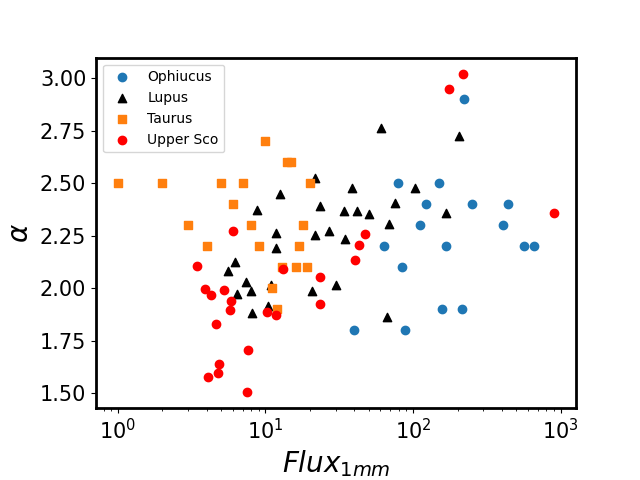
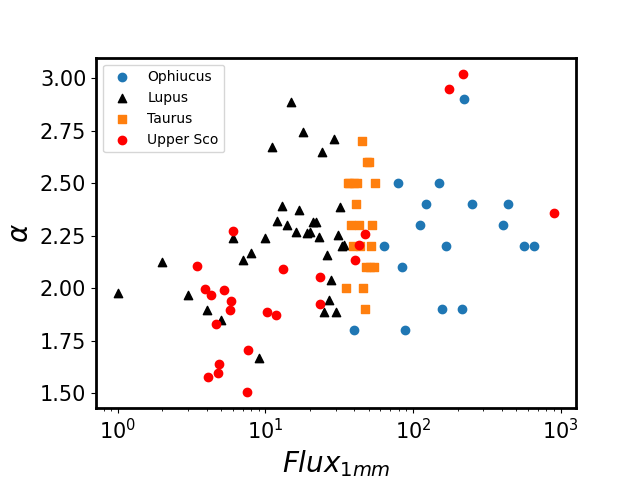
Updates
Addition of spectral indices from Ricci Lupus 0.87mm paper

diff --git a/Cumulative_spectral_indices.py b/Cumulative_spectral_indices.py
@@ -1,8 +1,9 @@
 from data_file import tazzari_lupus_flux, tazzari_lupus_flux_error, tazzari_lupus_sources, source_ansdell_lupus, \
     flux_ansdell_1_33mm_lupus, flux_ansdell_1_33mm_error_lupus, ricci_taurus_sources_1mm, flux_barenfeld_0_88mm_updated,\
     flux_list_ophiucus_ricci_1mm, source_list_ophiucus_ricci_1mm, ricci_ophiuchi_flux_3_3mm, \
-    source_names_ophiucus_ricci_3_3mm, spectral_index_ophiucus, spectral_indices_taurus
-from Histogram_spectral_index import spectra_index, spectral_index_upper_sco
+    source_names_ophiucus_ricci_3_3mm, spectral_index_ophiucus, spectral_indices_taurus, tazzari_lupus_spectral_indices
+from Histogram_spectral_index import spectral_index_upper_sco
+
 
 import numpy as np
 import matplotlib.pyplot as plt
@@ -30,11 +31,6 @@ for index_andsell, element_andsell in enumerate(source_ansdell_lupus):
             flux_matching_TAZZARI_andsell_error_lupus.append(tazzari_lupus_flux_error[index_tazzari])
             flux_matching_tazzari_ANDSELL_lupus.append(flux_ansdell_1_33mm_lupus[index_andsell])
             flux_matching_tazzari_ANDSELL_error_lupus.append(flux_ansdell_1_33mm_error_lupus[index_andsell])
-
-spectral_index_lupus = []
-for x in range(len(sources_matching_tazzari_andsell_lupus)):
-    spectral_index_lupus.append(spectra_index(flux_matching_tazzari_ANDSELL_lupus[x], flux_matching_TAZZARI_andsell_lupus[x], 10 ** 10 / 0.133, 10 ** 10 / 0.31))
-
 
 #matching_sources_ricci_taurus_3mm_1mm = []
 #matching_fluxes_ricci_taurus_3MM_1mm = []
@@ -93,18 +89,19 @@ while minimum < np.max(spectral_indices_taurus) + 0.3:
 count_list_taurus = [x / 11 for x in count_list_taurus]
 
 count_list_lupus = []
-steps = (np.max(spectral_index_lupus) - np.min(spectral_index_lupus))/100
-minimum = np.min(spectral_index_lupus) - 0.3
-while minimum < np.max(spectral_index_lupus) + 0.3:
+steps = (np.max(tazzari_lupus_spectral_indices) - np.min(tazzari_lupus_spectral_indices))/100
+minimum = np.min(tazzari_lupus_spectral_indices) - 0.3
+while minimum < np.max(tazzari_lupus_spectral_indices) + 0.3:
     count = 0
-    for elements in spectral_index_lupus:
+    for elements in tazzari_lupus_spectral_indices:
         if elements <= minimum:
             count += 1
 
     count_list_lupus.append(count)
     minimum += steps
 
-count_list_lupus = [x /len(spectral_index_lupus) for x in count_list_lupus]
+count_list_lupus = [x /len(tazzari_lupus_spectral_indices) for x in count_list_lupus]
+
 
 count_list_ophiucus = []
 steps = (np.max(spectral_index_ophiucus) - np.min(spectral_index_ophiucus)) / 100
@@ -120,8 +117,9 @@ while minimum < np.max(spectral_index_ophiucus) + 0.3:
 
 count_list_ophiucus = [x / len(spectral_index_ophiucus) for x in count_list_ophiucus]
 
+
 plt.scatter(flux_list_ophiucus_ricci_1mm, spectral_index_ophiucus, label='Ophiucus',)
-plt.scatter(flux_matching_tazzari_ANDSELL_lupus, spectral_index_lupus, label='Lupus', marker='^', color='black')
+plt.scatter(tazzari_lupus_sources, tazzari_lupus_spectral_indices, label='Lupus', marker='^', color='black')
 plt.scatter(ricci_taurus_sources_1mm, spectral_indices_taurus, label='Taurus', marker='s')
 plt.scatter(flux_barenfeld_0_88mm_updated, spectral_index_upper_sco, label='Upper Sco', color='red')
 plt.xlabel('$Flux_{1mm}$', fontsize=20), plt.ylabel(r'$\alpha$', fontsize=20)
@@ -132,7 +130,7 @@ plt.savefig('Spectral index vs flux_1mm')
 plt.show()
 
 x_ophiucus = np.linspace(np.min(spectral_index_ophiucus) - 0.3, np.max(spectral_index_ophiucus) + 0.3, len(count_list_ophiucus))
-x_lupus = np.linspace(np.min(spectral_index_lupus) - 0.3, np.max(spectral_index_lupus) + 0.3, len(count_list_lupus))
+x_lupus = np.linspace(np.min(tazzari_lupus_spectral_indices) - 0.3, np.max(tazzari_lupus_spectral_indices) + 0.3, len(count_list_lupus))
 x_taurus = np.linspace(np.min(spectral_indices_taurus) - 0.3, np.max(spectral_indices_taurus) + 0.3, len(count_list_taurus))
 x_sco = np.linspace(np.min(spectral_index_upper_sco) - 0.3, np.max(spectral_index_upper_sco) + 0.3, len(count_list_sco))
 
@@ -149,6 +147,7 @@ plt.step(x_ophiucus, count_list_ophiucus, label='Ophiucus')
 plt.step(x_taurus, count_list_taurus, label='Taurus-Auriga')
 plt.step(x_lupus, count_list_lupus, label='Lupus')
 plt.step(x_sco, count_list_sco, label='Upper Sco')
+
 
 plt.ylim(0,1)
 plt.legend()

diff --git a/data_file.py b/data_file.py
@@ -143,26 +143,30 @@ flux_ansdell_1_33mm_lupus = [float(x.strip()) for x in flux_ansdell_1_33mm_lupus
 tazzari_lupus_sources = []
 tazzari_lupus_flux = []
 tazzari_lupus_flux_error = []
+tazzari_lupus_spectral_indices = []
+
 with open('Tazzari 2021 2.7mm.txt') as f:
     lines = f.readlines()[12:]
     for x in lines:
         tazzari_lupus_sources.append(x[0:20])
         tazzari_lupus_flux.append(x[79:90])
         tazzari_lupus_flux_error.append(x[90:101])
+        tazzari_lupus_spectral_indices.append(x[123:132])
+
 
 # remove white spaces at both ends
 # ex ' Sz 65 ' becomes 'Sz 65'
 tazzari_lupus_sources = [x.strip() for x in tazzari_lupus_sources]
 tazzari_lupus_flux = [x.strip() for x in tazzari_lupus_flux]
 tazzari_lupus_flux_error = [float(x.strip()) for x in tazzari_lupus_flux_error]
+tazzari_lupus_sources.remove('Sz 91')
+tazzari_lupus_spectral_indices.remove('      nan')
+tazzari_lupus_spectral_indices = [float(x.strip()) for x in tazzari_lupus_spectral_indices]
+
 
 # one flux for a star is missing, so pop all the data from that line
 tazzari_lupus_flux = [float(x) if x != 'nan' else 0 for x in tazzari_lupus_flux]
-for index, element in enumerate(tazzari_lupus_flux):
-    if element == 0:
-        tazzari_lupus_sources.pop(index)
-        tazzari_lupus_flux.pop(index)
-        tazzari_lupus_flux_error.pop(index)
+
 
 # remove white spaces in the middle of the name
 # ex. 'Sz 65' becomes 'Sz65'
@@ -288,9 +292,6 @@ with open('apjaa97e2t4_ascii.txt') as f:
 
 fluxes_ophiucus_cox_0_87mm = [x[0:4] if "or" in x else x for x in fluxes_ophiucus_cox_0_87mm]
 indices_to_pop = [fluxes_ophiucus_cox_0_87mm.index(x) for x in fluxes_ophiucus_cox_0_87mm if x[0] == '<']
-sources_to_pop = []
-sources_to_pop = [sources_ophiucus_cox[x] for x in indices_to_pop]
-fluxes_ophiucus_cox_0_87mm = [x for x in fluxes_ophiucus_cox_0_87mm if x[0] != '<']
 
 
 source_list_ophiucus_ricci_1mm = ['SR 4', 'GSS 26', 'EL 20', 'DoAr 25', 'EL 24', 'EL 27', 'SR 21', 'IRS 41', ' YLW 16C', 'IRS 49', 'DoAr 33', 'WSB 52', 'WSB 60', 'DoAr 44', 'RNO 90', 'Wa Oph 60', 'AS 209']

diff --git a/Histogram_spectral_index.py b/Histogram_spectral_index.py
@@ -8,7 +8,7 @@ plt.setp(ax.spines.values(), linewidth=2)
 #avoid axis labels being cut
 plt.gcf().subplots_adjust(bottom=0.15, left=0.15)
 
-from data_file import flux_barenfeld_0_88mm_updated, flux_list_2_87mm_garrett
+from data_file import flux_barenfeld_0_88mm_updated, flux_list_2_87mm_garrett, tazzari_lupus_spectral_indices
 
 spectral_index_upper_sco = []
 
@@ -19,7 +19,7 @@ def spectra_index(flux_1, flux_2, freq1, freq2):
     return ((np.log10(flux_1/flux_2))/(np.log10(freq1/freq2)))
 
 for index, element in enumerate(flux_list_2_87mm_garrett):
-    spectral_index_upper_sco.append(spectra_index(flux_list_2_87mm_garrett[index], flux_barenfeld_0_88mm_updated[index], 10 ** 10 / 0.287, 10 ** 10 / 0.087))
+    spectral_index_upper_sco.append(spectra_index(flux_list_2_87mm_garrett[index], flux_barenfeld_0_88mm_updated[index], 10 ** 11 / 2.87, 10 ** 11 / 0.87))
 
 plt.hist(spectral_index_upper_sco, bins=30, edgecolor='black', linewidth=2)
 plt.ylabel('Frequency', fontsize=20), plt.xlabel(r'Spectral index $\alpha_{abs}$', fontsize=20)
